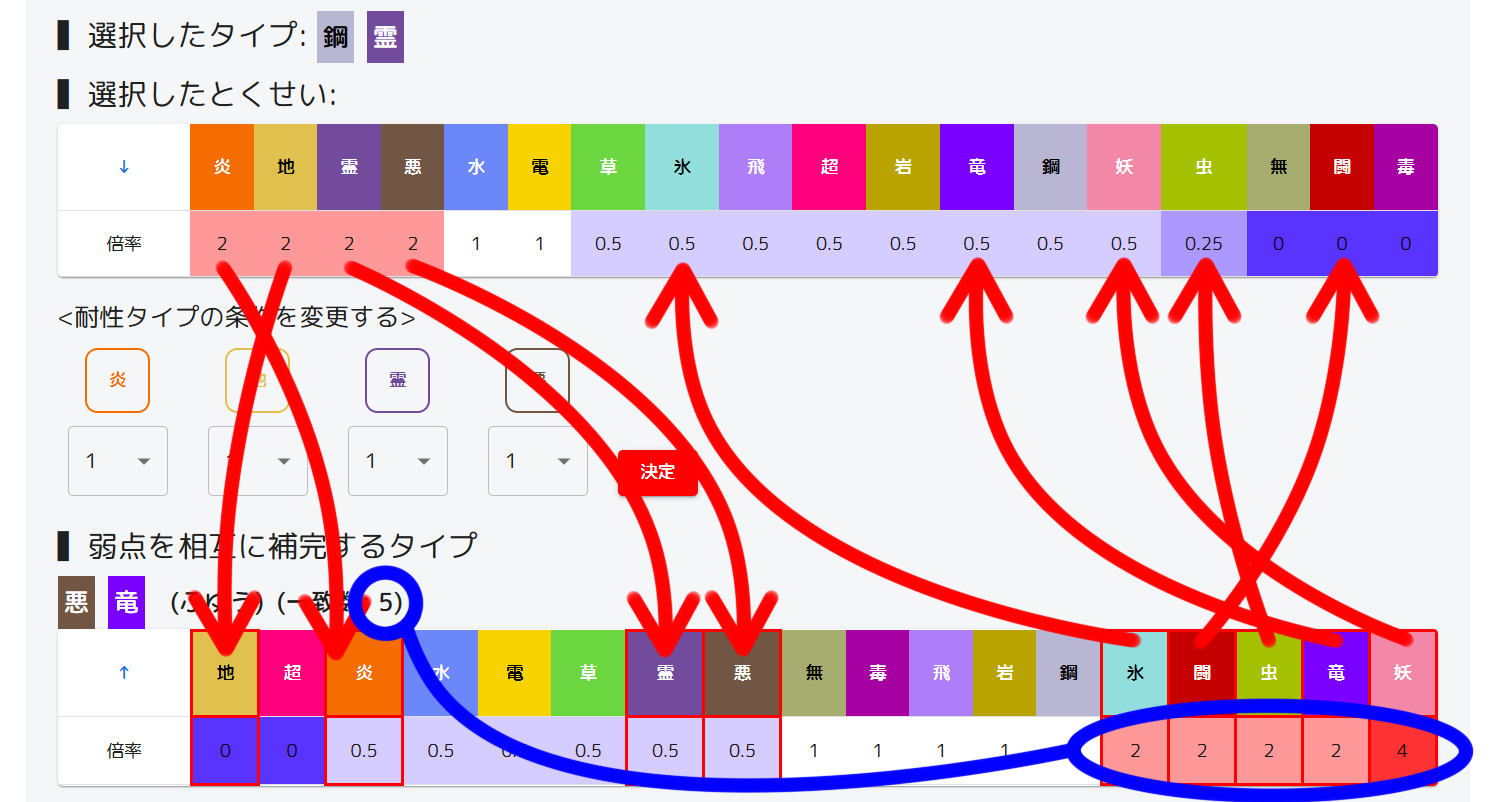
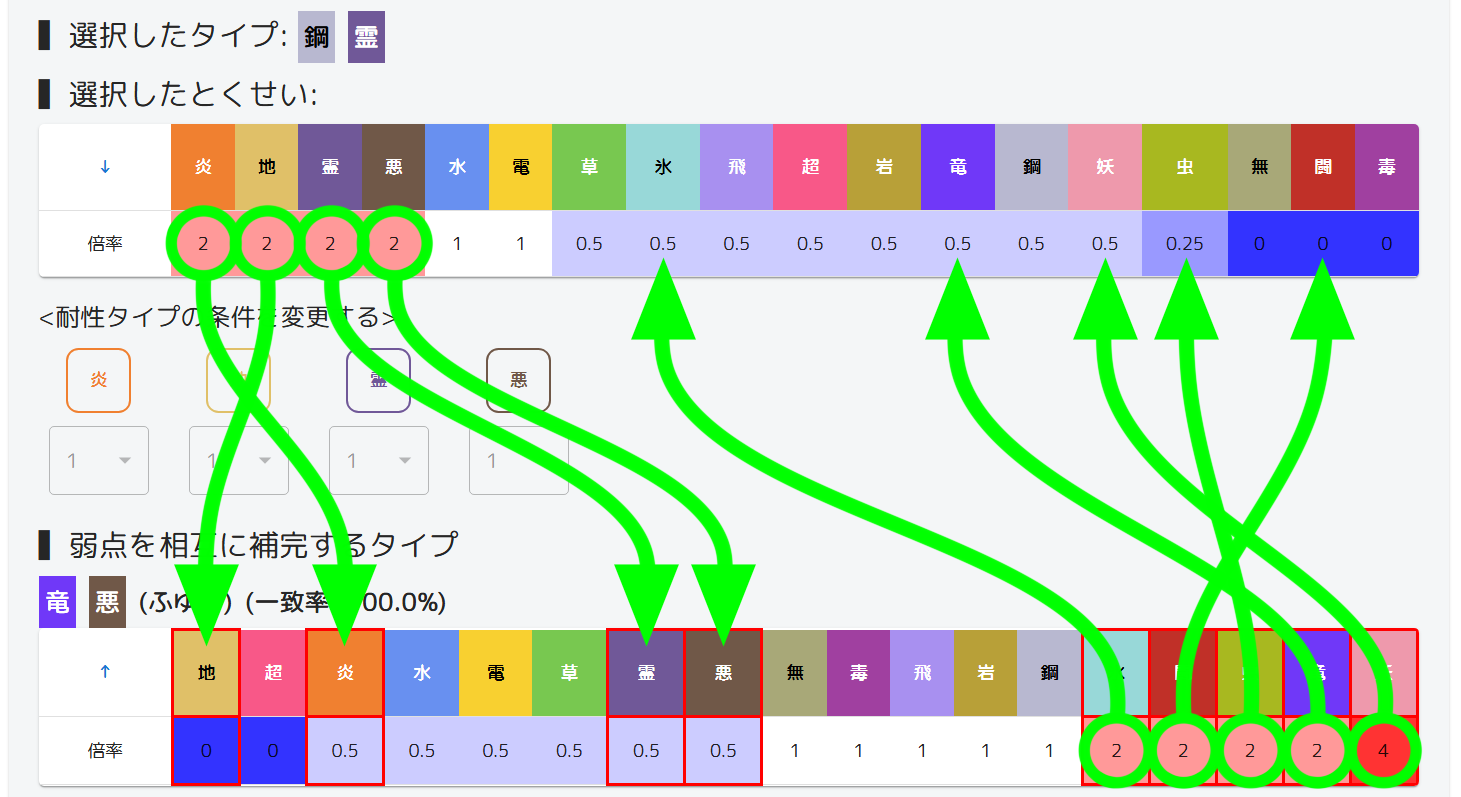
Update resistance condition matching logic

diff --git a/src/components/TableB.js b/src/components/TableB.js
@@ -10,6 +10,12 @@ const sortTypes = (type1, type2) => {
   return index1 - index2;
 };
 
+const formatEffectivenessValue = (value) => {
+  if (value === undefined) return '-';
+  if (Number.isInteger(value)) return value.toString();
+  return value.toFixed(2).replace(/\.?0+$/, '');
+};
+
 const TableB = ({ resistantType, ability, effectiveness, matchCount, resistantToWeakTypes, customResistance, originalEffectiveness, onTypeClick }) => {
   const [sortOrder, setSortOrder] = useState('asc');
 
@@ -95,14 +101,29 @@ const TableB = ({ resistantType, ability, effectiveness, matchCount, resistantTo
     }
   });
 
-  const customResistanceDisplay = Object.entries(customResistance).map(([type, value], index, array) => (
-    <React.Fragment key={type}>
-      <TypeDisplay type={type} isLast={index === array.length - 1} />
-      <span style={{ margin: 0 }}>×{value}</span>
-      {index < array.length - 1 && <span style={{ marginRight: '10px' }}></span>}
-    </React.Fragment>
-  ));
+  // カスタム耐性条件の表示を生成
+  const getCustomResistanceDisplay = () => {
+    return Object.entries(customResistance).map(([type, maxValue]) => {
+      const actualValue = effectiveness[type];
+      return {
+        type,
+        displayValue: formatEffectivenessValue(actualValue)
+      };
+    });
+  };
 
+  const CustomResistanceDisplay = ({ customResistanceInfo }) => (
+    <span style={{ display: 'inline-flex', alignItems: 'center', gap: '10px' }}>
+      {customResistanceInfo.map(({ type, displayValue }, index) => (
+        <span key={type} style={{ display: 'inline-flex', alignItems: 'center' }}>
+          <TypeDisplay type={type} isLast={true} />
+          <span>×{displayValue}</span>
+        </span>
+      ))}
+    </span>
+  );
+
+  const customResistanceDisplay = getCustomResistanceDisplay();
   const sortedResistantTypes = resistantType.split('/').sort(sortTypes);
 
   return (
@@ -124,7 +145,7 @@ const TableB = ({ resistantType, ability, effectiveness, matchCount, resistantTo
           {ability && <span style={{ marginLeft: '10px' }}>({ability})</span>}
           {customResistanceDisplay.length > 0 && (
             <span style={{ marginLeft: '10px' }}>
-              ({customResistanceDisplay})
+              (<CustomResistanceDisplay customResistanceInfo={customResistanceDisplay} />)
             </span>
           )}
           <span style={{ marginLeft: '10px', fontSize: '1.25rem' }}>

diff --git a/src/utils/calculations.js b/src/utils/calculations.js
@@ -82,8 +82,10 @@ export const findResistantTypes = (effectiveness, customResistance, typeAbilityC
     
     const resistantToWeakTypes = weakTypes.filter(type => {
       if (type in customResistance) {
-        return Math.abs(combinedEffectiveness[type] - customResistance[type]) < 0.001;
+        // カスタム耐性が設定されている場合、設定された倍率以下であることを確認
+        return combinedEffectiveness[type] <= customResistance[type];
       }
+      // カスタム耐性が設定されていない場合は従来通り0.5倍以下
       return combinedEffectiveness[type] <= 0.5;
     });
     
@@ -110,8 +112,10 @@ export const findResistantTypes = (effectiveness, customResistance, typeAbilityC
       
       const resistantToWeakTypes = weakTypes.filter(type => {
         if (type in customResistance) {
-          return Math.abs(combinedEffectiveness[type] - customResistance[type]) < 0.001;
+          // カスタム耐性が設定されている場合、設定された倍率以下であることを確認
+          return combinedEffectiveness[type] <= customResistance[type];
         }
+        // カスタム耐性が設定されていない場合は従来通り0.5倍以下
         return combinedEffectiveness[type] <= 0.5;
       });
       
